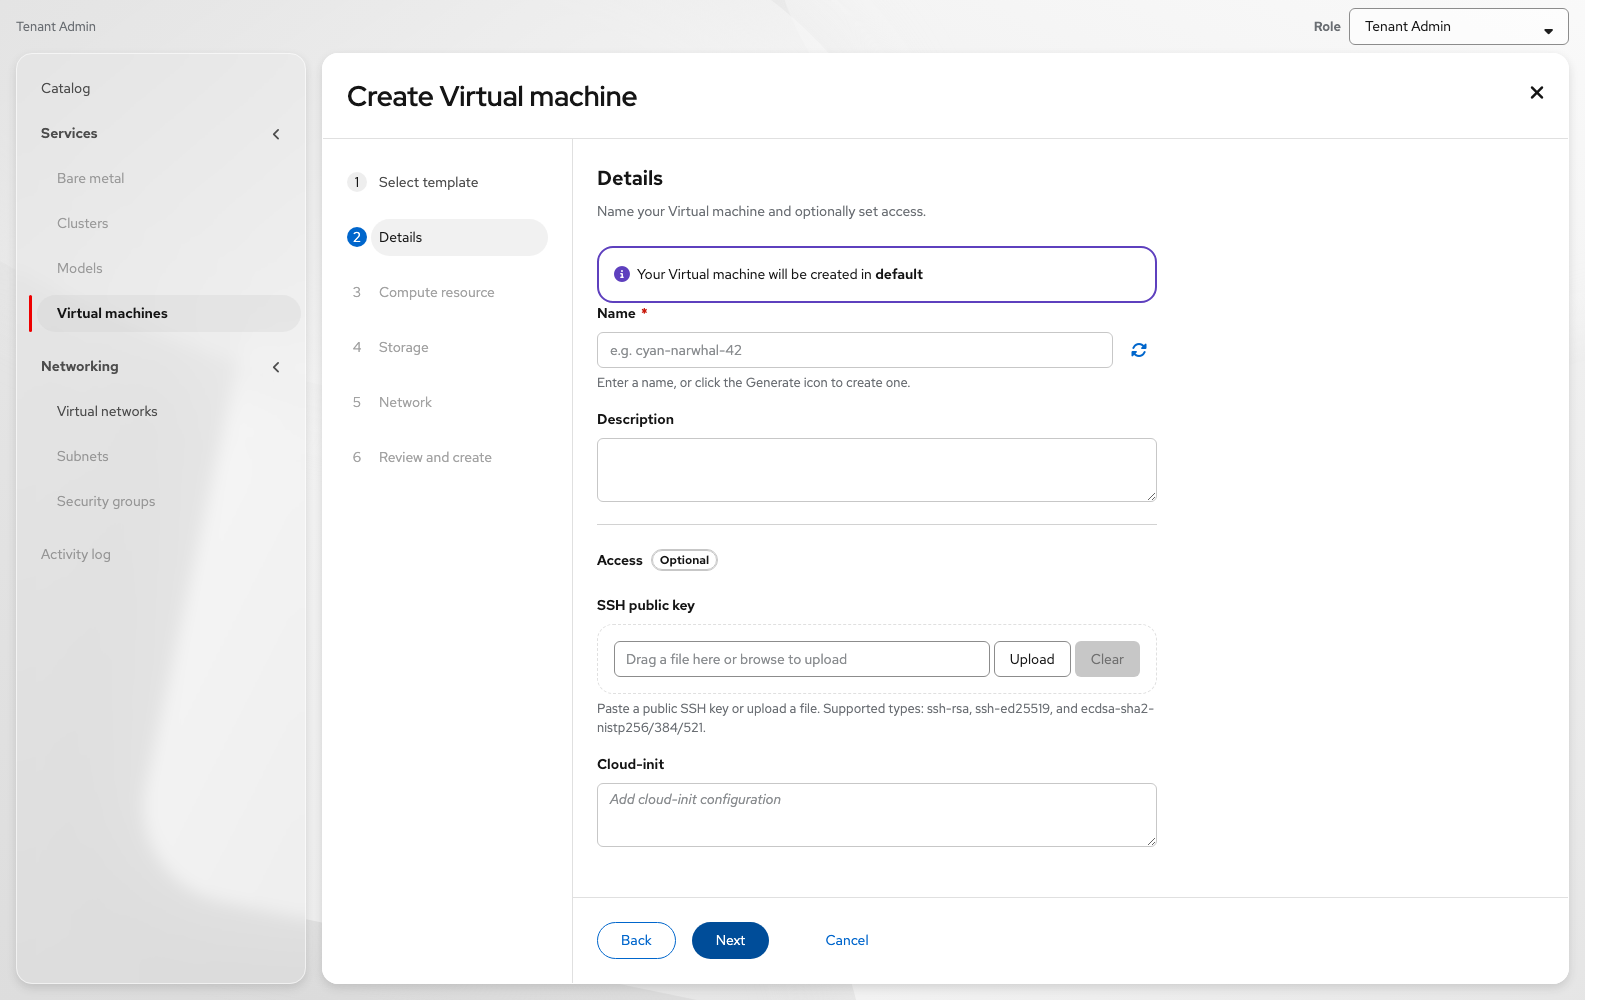
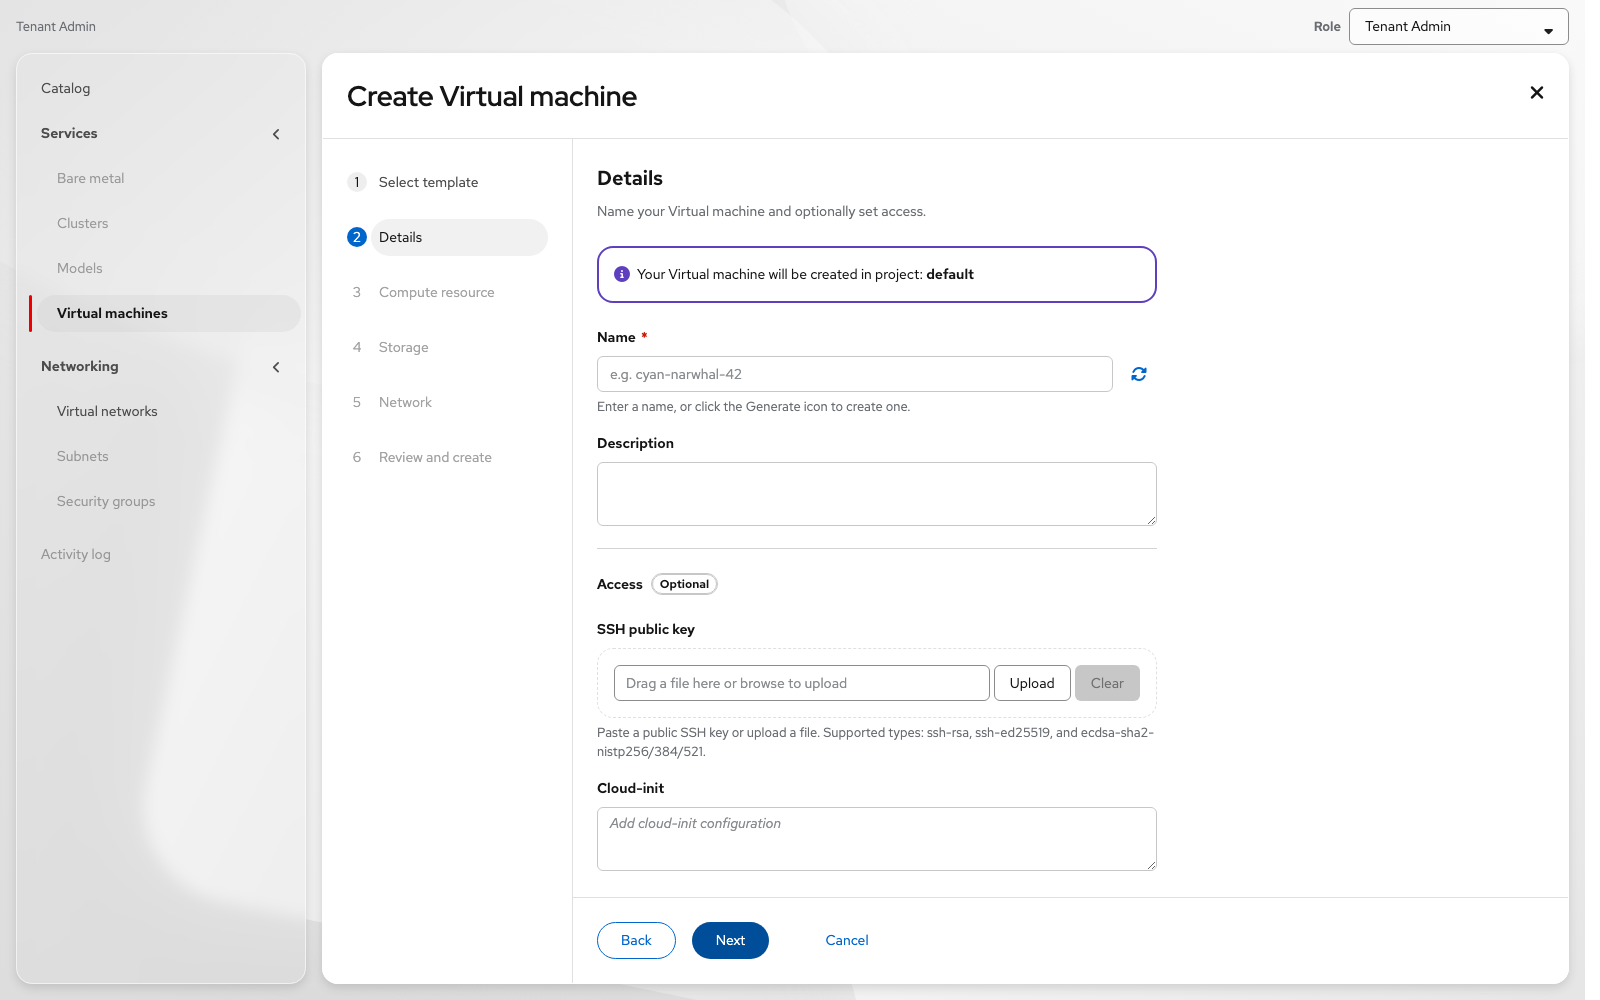
Clarify Details project note wording and tighten alert spacing.

diff --git a/vmaas-create-vm-only.html b/vmaas-create-vm-only.html
@@ -849,8 +849,11 @@
     }
     /* Details — project is context awareness, not a disabled control */
     .project-context {
-      margin: 0;
+      margin: 0 0 var(--pf-t--global--spacer--lg, 24px);
       max-width: 560px;
+    }
+    .step-help:has(+ .project-context) {
+      margin-bottom: var(--pf-t--global--spacer--md, 16px);
     }
     .project-context .pf-v6-c-alert__title {
       font-size: 14px;
@@ -9746,7 +9749,7 @@
             <div class="project-context pf-v6-c-alert pf-m-inline pf-m-info" role="status">
               <div class="pf-v6-c-alert__icon"><i class="fa-solid fa-circle-info" aria-hidden="true"></i></div>
               <div class="pf-v6-c-alert__title">
-                Your Virtual machine will be created in <strong>${String(d.project || 'default').replace(/</g, '&lt;')}</strong>
+                Your Virtual machine will be created in project: <strong>${String(d.project || 'default').replace(/</g, '&lt;')}</strong>
               </div>
             </div>
             ` : '<h3 class="section-label">General info</h3>'}

diff --git a/vmaas-create-vm-only-ux-doc.md b/vmaas-create-vm-only-ux-doc.md
@@ -113,7 +113,7 @@ Figure: Template drawer — editable
 ## Step 2 — Details
 
 - Help: *Name your Virtual machine and optionally set access.*
-- Context note (not a dropdown): *Your Virtual machine will be created in **{project}***
+- Context note (not a dropdown): *Your Virtual machine will be created in project: **{project}***
 - **Name** (required) + generate
 - **Description** (optional)
 - Project is chosen on Select template (not editable here)
